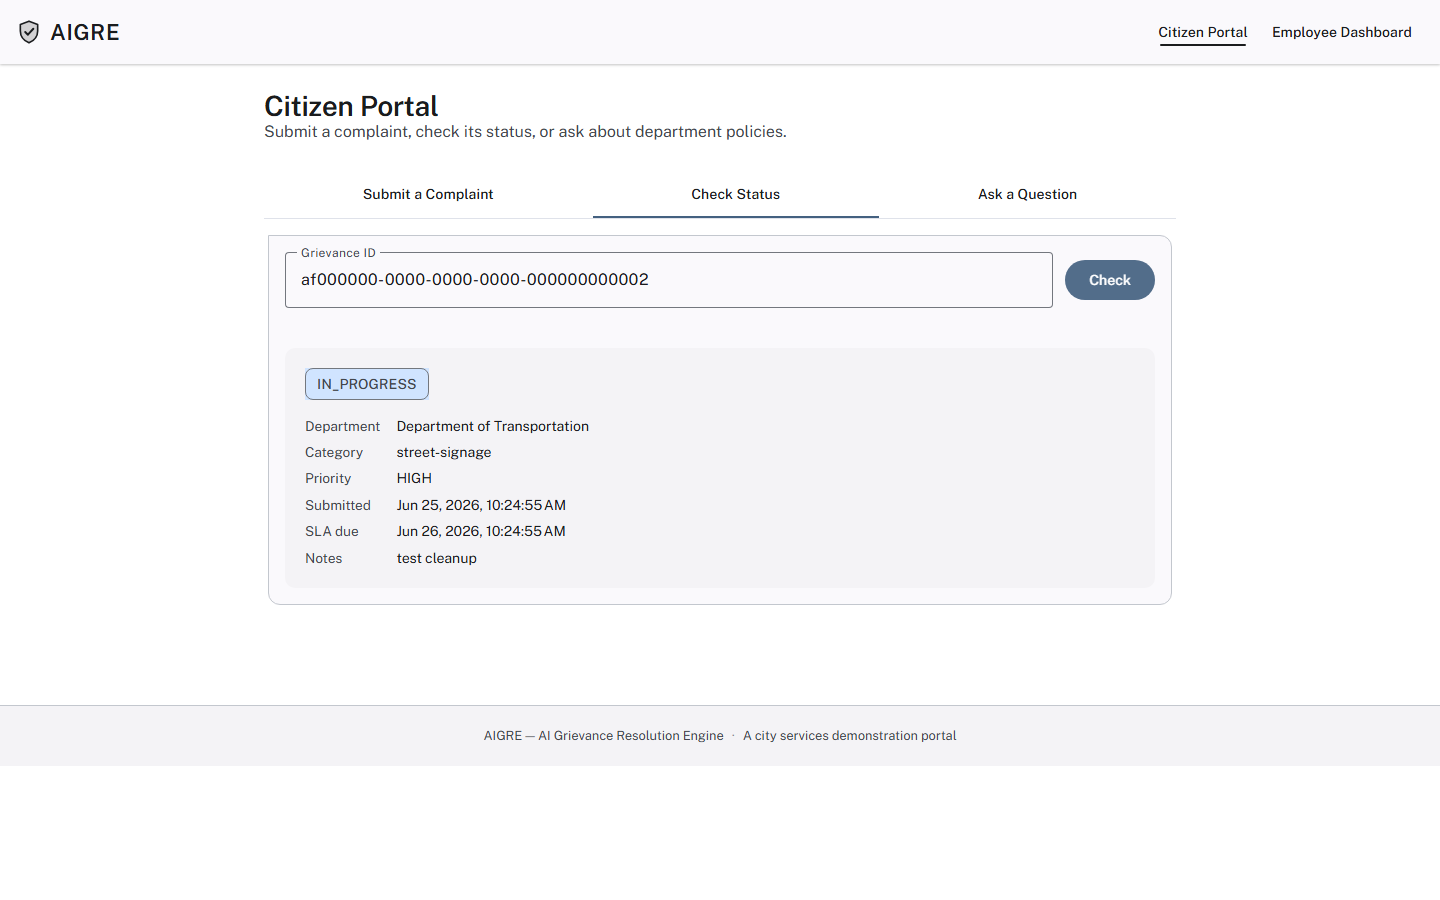
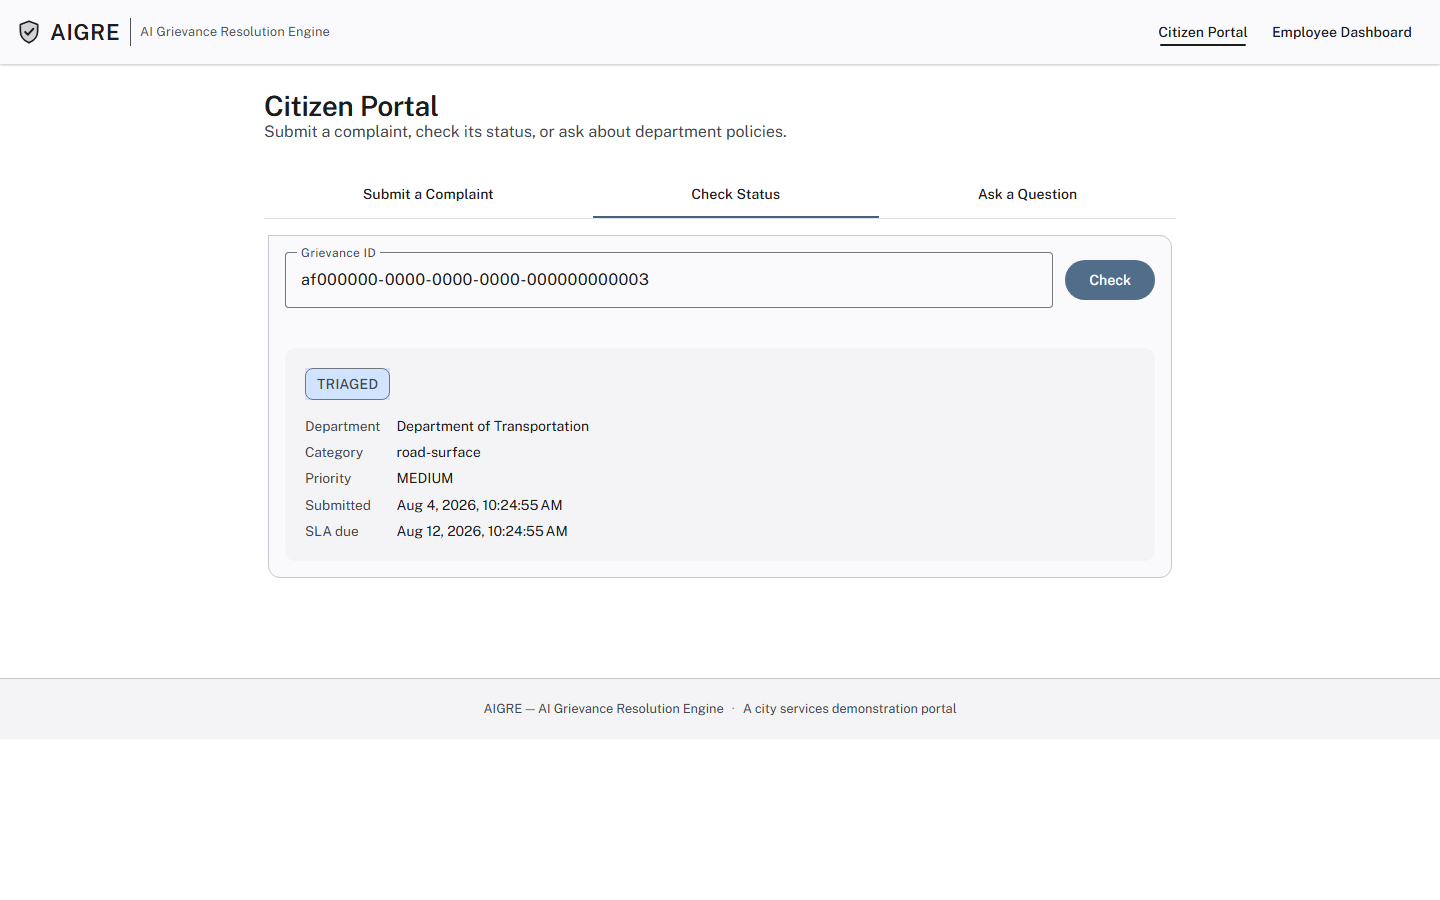
Refresh all app walkthrough screenshots with the new AIGRE branding
Every screenshot showed the old toolbar (no tagline) and old landing hero
text, stale since the "AI Grievance Resolution Engine" branding pass. Live
recapture of all 18 citizen/employee screenshots against the running app
(portal submit/pending/clarify/reopen/chat flows, employee login/pending
review/dialogs/queue/mark-resolved). Also updates the landing-page
description and the chat-citation example to honestly reflect current
retrieval behavior (the v1/v2 SOP distractor now wins a citation slot on
some runs -- a known, already-documented finding, not hidden here) instead
of leaving stale prose that no longer matches the live screenshot.

Claude-Session: https://claude.ai/code/session_015sAQJH3JSBd6CN6xHCPT64

diff --git a/docs/APP_WALKTHROUGH.md b/docs/APP_WALKTHROUGH.md
@@ -12,10 +12,11 @@ See `RUNNING.md` to get both running locally.
 
 ## Landing page (`/`)
 
-The entry point: a short hero ("Grievance Resolution Portal — AI-assisted intake,
-classification, and routing") and two cards — **Citizen Portal** and **Employee
-Dashboard**. The AIGRE mark and title in the top toolbar are clickable from anywhere in
-the app and return here.
+The entry point: a short hero (the full "AI Grievance Resolution Engine" name, with a
+one-line description of what the system does) and two cards — **Citizen Portal** and
+**Employee Dashboard**. The AIGRE mark and title in the top toolbar — which now also
+carries the full name as a tagline — are clickable from anywhere in the app and return
+here.
 
 ![Landing page](images/01-landing.png)
 
@@ -128,11 +129,21 @@ retrieved and used.
 
 > *"How long does DOT have to repair a reported pothole once it's submitted?"*
 
-> DOT has 5 business days to repair a reported pothole once it's submitted, per city
-> code 14-2.
+> According to the context provided, for a confirmed pothole classified as Minor or
+> Moderate, DOT has to complete the repair within five (5) business days of the
+> initial citizen report. For potholes regardless of severity classification, the
+> repair should be completed within ten (10) business days of the initial citizen
+> report, subject to exceptions under Section 4 due to weather and material
+> availability.
 
-Citation: `road-maintenance-sop-v2-current.txt` (DOT) — correctly the *current* SOP,
-not the superseded v1 that also exists in the corpus specifically to test this.
+Citations here include both `road-maintenance-sop-v2-current.txt` (the current SOP,
+which has the answer) and `road-maintenance-sop-v1-superseded.txt` — the corpus's own
+deliberate current-vs-superseded distractor, added specifically to test whether
+retrieval prefers the current document. The cross-reference-competition fix
+(`PROJECT.md`) narrowed this failure mode but didn't eliminate it outright: LLM-rerank
+sampling variance means the superseded doc still wins a seat among the top-5 some
+runs, as it did for this capture — a known, already-documented finding, not something
+hidden here.
 
 ![Chat answer with citation cards](images/06-citizen-chat-answer.png)
 
